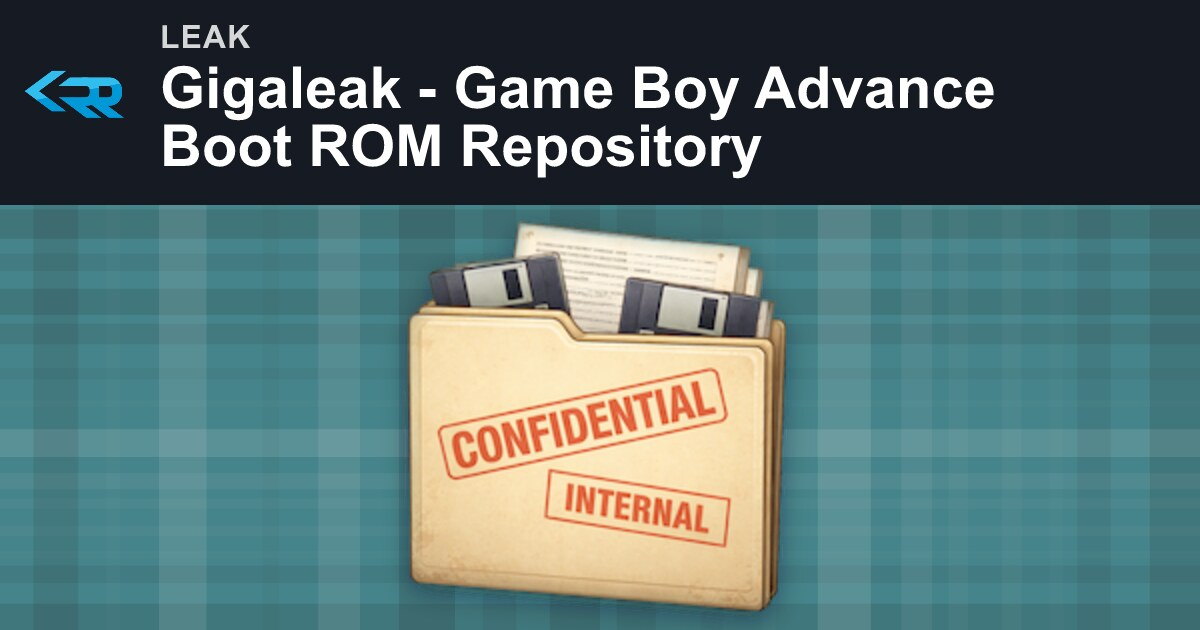
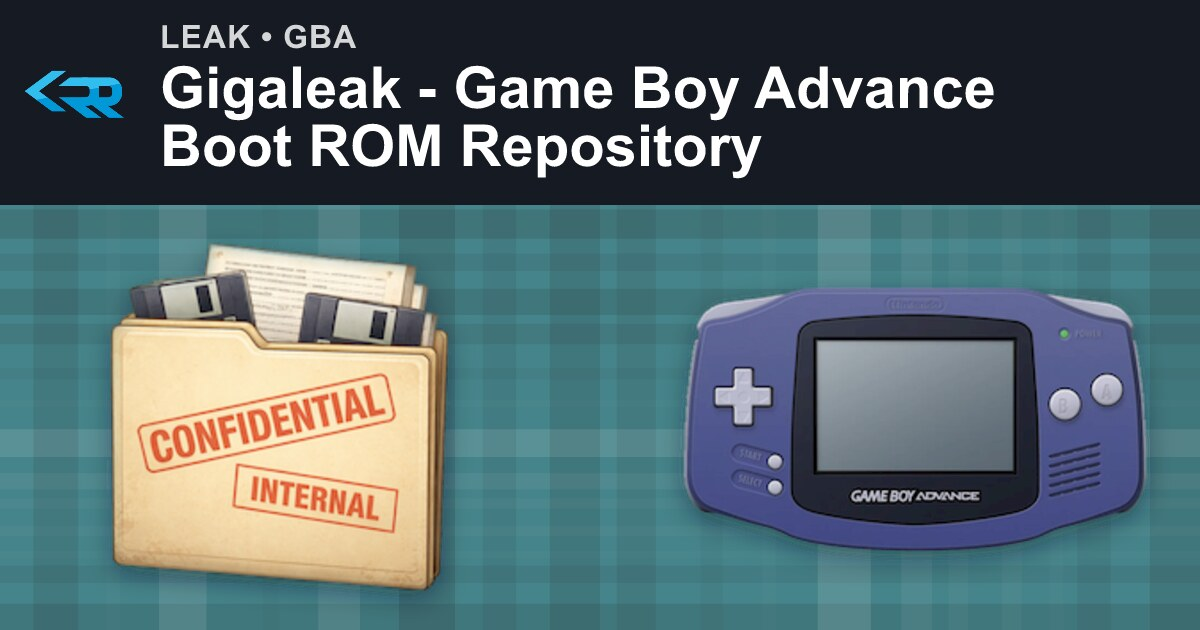
Now pages can have multiple categgories

diff --git a/scripts/generate-placeholder-social-images.js b/scripts/generate-placeholder-social-images.js
@@ -231,20 +231,74 @@ function getCategoryImageLayout(categoryImagePath) {
     };
 }
 
-function resolveCategory(metadata) {
+function getCategoryImageLayouts(categoryImagePaths = []) {
+    const usablePaths = categoryImagePaths.filter(Boolean);
+
+    if (usablePaths.length === 2) {
+        const lowerPanel = {
+            x: 0,
+            y: 205,
+            width: 1200,
+            height: 425
+        };
+        const horizontalGap = 72;
+        const slotWidth = (lowerPanel.width - horizontalGap) / 2;
+        const slotHeight = lowerPanel.height - 20;
+
+        return usablePaths.map((imagePath, index) => {
+            const slotX = lowerPanel.x + (index * (slotWidth + horizontalGap));
+            const slotY = lowerPanel.y + 10;
+            const dimensions = getImageDimensions(imagePath);
+
+            if (!dimensions) {
+                const fallbackWidth = Math.min(slotWidth * 0.82, 420);
+                const fallbackHeight = Math.min(slotHeight * 0.88, 320);
+                return {
+                    x: slotX + ((slotWidth - fallbackWidth) / 2),
+                    y: slotY + ((slotHeight - fallbackHeight) / 2),
+                    width: fallbackWidth,
+                    height: fallbackHeight
+                };
+            }
+
+            const fittedScale = Math.min(
+                (slotWidth * 0.88) / dimensions.width,
+                (slotHeight * 0.88) / dimensions.height
+            );
+            const renderedWidth = dimensions.width * fittedScale;
+            const renderedHeight = dimensions.height * fittedScale;
+
+            return {
+                x: slotX + ((slotWidth - renderedWidth) / 2),
+                y: slotY + ((slotHeight - renderedHeight) / 2),
+                width: renderedWidth,
+                height: renderedHeight
+            };
+        });
+    }
+
+    return [getCategoryImageLayout(usablePaths[0] || '')];
+}
+
+function resolveCategories(metadata) {
     if (metadata.category) {
-        return metadata.category;
+        if (Array.isArray(metadata.category) && metadata.category.length > 0) {
+            return metadata.category.filter(Boolean);
+        }
+        if (typeof metadata.category === 'string' && metadata.category) {
+            return [metadata.category];
+        }
     }
     if (metadata.console) {
-        return metadata.console;
+        return [metadata.console];
     }
     if (Array.isArray(metadata.categories) && metadata.categories.length > 0) {
-        return metadata.categories[0];
+        return [metadata.categories[0]];
     }
     if (typeof metadata.categories === 'string' && metadata.categories) {
-        return metadata.categories;
+        return [metadata.categories];
     }
-    return 'Reverse Engineering';
+    return ['Reverse Engineering'];
 }
 
 function wrapTitle(title, maxLineLength = 31, maxLines = 3) {
@@ -321,18 +375,21 @@ function buildGeoPatternSvg(seed) {
     }
 }
 
-function buildSvg({ title, category, categoryImagePath, seed }) {
+function buildSvg({ title, categories, categoryImagePaths, seed }) {
     const titleLines = wrapTitle(title);
     const titleY = titleLines.length === 1 ? 116 : 108;
-    const categoryText = category ? category.replace(/-/g, ' ').toUpperCase() : '';
-    const categoryImageHref = fileToDataUri(categoryImagePath);
+    const categoryText = categories
+        .slice(0, 2)
+        .map((category) => String(category).replace(/-/g, ' ').toUpperCase())
+        .join(' • ');
+    const categoryImageHrefs = categoryImagePaths.map((categoryImagePath) => fileToDataUri(categoryImagePath));
     const logoImageHref = fileToDataUri(RR_LOGO_IMAGE);
     const geoPatternSvg = buildGeoPatternSvg(seed);
     const geoPatternHref = geoPatternSvg
         ? `data:image/svg+xml;base64,${Buffer.from(geoPatternSvg).toString('base64')}`
         : '';
     const textX = 160;
-    const categoryImageLayout = getCategoryImageLayout(categoryImagePath);
+    const categoryImageLayouts = getCategoryImageLayouts(categoryImagePaths);
 
     const titleTspans = titleLines
         .slice(0,2)
@@ -342,9 +399,16 @@ function buildSvg({ title, category, categoryImagePath, seed }) {
     const barHeight = titleLines.length === 1 ? 150 : 205;
     const logoYOffset = titleLines.length === 1 ? 16 : 36;
 
-    const categoryImageMarkup = categoryImageHref
-        ? `<image href="${categoryImageHref}" x="${categoryImageLayout.x}" y="${categoryImageLayout.y}" width="${categoryImageLayout.width}" height="${categoryImageLayout.height}" preserveAspectRatio="xMidYMid meet" />`
-        : '';
+    const categoryImageMarkup = categoryImageHrefs
+        .map((categoryImageHref, index) => {
+            if (!categoryImageHref || !categoryImageLayouts[index]) {
+                return '';
+            }
+
+            const categoryImageLayout = categoryImageLayouts[index];
+            return `<image href="${categoryImageHref}" x="${categoryImageLayout.x}" y="${categoryImageLayout.y}" width="${categoryImageLayout.width}" height="${categoryImageLayout.height}" preserveAspectRatio="xMidYMid meet" />`;
+        })
+        .join('');
 
     return `<?xml version="1.0" encoding="UTF-8"?>
 <svg xmlns="http://www.w3.org/2000/svg" width="1200" height="630" viewBox="0 0 1200 630">
@@ -457,11 +521,15 @@ function main() {
             continue;
         }
 
-        const category = resolveCategory(metadata);
-        const categoryImageRelativePath = categoryImages[category];
-        const categoryImagePath = categoryImageRelativePath
-            ? path.join(ROOT_DIR, categoryImageRelativePath.replace(/^\//, ''))
-            : '';
+        const categories = resolveCategories(metadata).slice(0, 2);
+        const categoryImagePaths = categories
+            .map((category) => {
+                const categoryImageRelativePath = categoryImages[category];
+                return categoryImageRelativePath
+                    ? path.join(ROOT_DIR, categoryImageRelativePath.replace(/^\//, ''))
+                    : '';
+            })
+            .filter(Boolean);
 
         const outputPaths = buildOutputPath(metadata.permalink);
         const inputTimestamp = getInputTimestamp(filePath, CONFIG_PATH);
@@ -481,8 +549,8 @@ function main() {
 
         const svgContent = buildSvg({
             title: metadata.shorttitle || metadata.title,
-            category,
-            categoryImagePath,
+            categories,
+            categoryImagePaths,
             seed
         });
 

diff --git a/_includes/console.html b/_includes/console.html
@@ -1,8 +1,21 @@
 <div class="console-pages">
 {% assign page_category = page.category | default: page.console %}
+{% assign page_category_json = page_category | jsonify %}
   
 {% for post in site.pages %}
-  {% if page_category and post.tags contains page_category and post.url != page.url %}
+  {% assign include_post = false %}
+  {% if page_category_json contains '[' %}
+    {% for category in page_category %}
+      {% if category and post.tags contains category %}
+        {% assign include_post = true %}
+        {% break %}
+      {% endif %}
+    {% endfor %}
+  {% elsif page_category and post.tags contains page_category %}
+    {% assign include_post = true %}
+  {% endif %}
+
+  {% if include_post and post.url != page.url %}
   
   <div class="console-page-post">
       {% include post-list-cards.html %}

diff --git a/_includes/placeholder-post-image.html b/_includes/placeholder-post-image.html
@@ -4,7 +4,13 @@ Parameters:
 * post - The Post (Page) that this is a placeholder thumbnail image for
 {% endcomment %}
 {% if include.post.title %}
-  {% assign placeholder_category = include.post.category | default: include.post.console | default: include.post.categories.first %}
+  {% assign placeholder_category_raw = include.post.category | default: include.post.console | default: include.post.categories.first %}
+  {% assign placeholder_category_json = placeholder_category_raw | jsonify %}
+  {% if placeholder_category_json contains '[' %}
+    {% assign placeholder_category = placeholder_category_raw | first %}
+  {% else %}
+    {% assign placeholder_category = placeholder_category_raw %}
+  {% endif %}
   {% assign placeholder_category_image = site.category_images[placeholder_category] %}
   <div class="geopattern rr-placeholder-post-image" data-title="{{ include.post.title }}">
     <img class="lazy-load rr-placeholder-post-image__logo" data-image-full="/public/images/RRPlaceholder.jpg" alt="{{ include.post.title }}" />

diff --git a/_includes/post-list-cards.html b/_includes/post-list-cards.html
@@ -3,7 +3,13 @@
         <!-- This is used in the category page list of posts but not in the post layout as its a different header and uses "page" not "post" -->
         Note: use post NOT page for each title BUT use page.category as page is the category containing the list of posts
         {%- endcomment -%}
-        {% assign page_category = page.category | default: page.console %}
+        {% assign page_category_raw = page.category | default: page.console %}
+        {% assign page_category_json = page_category_raw | jsonify %}
+        {% if page_category_json contains '[' %}
+          {% assign page_category = page_category_raw | first %}
+        {% else %}
+          {% assign page_category = page_category_raw %}
+        {% endif %}
         <div class="post-header">
           <div>
             {% if page_category and site.category_images[page_category] %}

diff --git a/_includes/posts/post-header.html b/_includes/posts/post-header.html
@@ -1,5 +1,11 @@
 <div class="post-header">
-    {% assign page_category = page.category | default: page.console %}
+    {% assign page_category_raw = page.category | default: page.console %}
+    {% assign page_category_json = page_category_raw | jsonify %}
+    {% if page_category_json contains '[' %}
+    {% assign page_category = page_category_raw | first %}
+    {% else %}
+    {% assign page_category = page_category_raw %}
+    {% endif %}
     <div>
         {% if page.thumbnail %}
         <img class="post-header-icon" src="{{ page.thumbnail }}" alt="Post thumbnail">

diff --git a/CONTRIBUTING.md b/CONTRIBUTING.md
@@ -153,6 +153,10 @@ tags:
 - leak
 title: Example Page Title
 category: leak
+# category can also be a list when a page belongs to multiple areas:
+# category:
+# - leak
+# - snes
 image: /public/images/example.jpg
 twitterimage: https://www.retroreversing.com/public/images/example.jpg
 permalink: /example-page
@@ -178,7 +182,7 @@ Field | Purpose
 `layout` | Usually `post` for normal RetroReversing pages
 `tags` | Search/discovery tags for the page, and the values other pages match against in their `recommend` lists
 `title` | Full page title shown in the page header and metadata (do not use colons! as it messes with the yaml frontmatter)
-`category` | Main site grouping such as the games console name or others such as `leak`, `introduction`, `gameengines`, `maths`, or another section-specific category
+`category` | Main site grouping such as the games console name or others such as `leak`, `introduction`, `gameengines`, `maths`, or another section-specific category. This can be a single value (`category: leak`) or a list (`category: [leak, snes]`) when a page belongs to multiple categories.
 `image` | Main preview image used by the page and site cards, if there is not a unique one leave it blank and it will be generated based on the category and title
 `twitterimage` | Absolute URL version of the preview image for social sharing, leave blank and it will be generated
 `permalink` | Final public path for the page (do not end with a trailing `/`; that is legacy format we are moving away from)

diff --git a/pages/leaks/Nintendo/SuperMarioCollection.md b/pages/leaks/Nintendo/SuperMarioCollection.md
@@ -4,9 +4,10 @@ tags:
 - snes
 - leak
 - sourcecode
-- mario
 title: Original Super Mario Collection / All-Stars Source Code (Gigaleak)
-category: leak
+category: 
+- leak
+- snes
 permalink: /super-mario-collection-source-code
 breadcrumbs:
   - name: Home
@@ -19,7 +20,6 @@ recommend:
 - snes
 - leak
 - sourcecode
-- mario
 editlink: /leaks/Nintendo/SuperMarioCollection.md
 updatedAt: '2026-03-29'
 ---

diff --git a/pages/leaks/Nintendo/ZeldaALinkToThePast.md b/pages/leaks/Nintendo/ZeldaALinkToThePast.md
@@ -4,9 +4,10 @@ tags:
 - snes
 - leak
 - sourcecode
-- zelda
 title: Original The Legend of Zelda - A Link to the Past Source Code (Gigaleak)
-category: snes
+category: 
+- snes
+- leak
 permalink: /zelda-a-link-to-the-past-source-code
 breadcrumbs:
   - name: Home
@@ -19,7 +20,6 @@ recommend:
 - snes
 - leak
 - sourcecode
-- zelda
 editlink: /leaks/Nintendo/ZeldaALinkToThePast.md
 updatedAt: '2026-03-29'
 ---

diff --git a/pages/leaks/Nintendo/YoshisIsland.md b/pages/leaks/Nintendo/YoshisIsland.md
@@ -4,9 +4,10 @@ tags:
 - snes
 - leak
 - sourcecode
-- yoshi
 title: Original Yoshi's Island Source Code (Gigaleak)
-category: leak
+category: 
+- leak
+- snes
 permalink: /yoshis-island-source-code
 breadcrumbs:
   - name: Home

diff --git a/pages/leaks/Nintendo/GameBoyAdvanceBootRomRepository.md b/pages/leaks/Nintendo/GameBoyAdvanceBootRomRepository.md
@@ -6,7 +6,9 @@ tags:
 - leak
 - sourcecode
 title: Gigaleak - Game Boy Advance Boot ROM Repository
-category: leak
+category: 
+- leak
+- gba
 permalink: /game-boy-advance-boot-rom-repository
 breadcrumbs:
   - name: Home

diff --git a/pages/leaks/Nintendo/GameBoyColorBootRomRepository.md b/pages/leaks/Nintendo/GameBoyColorBootRomRepository.md
@@ -2,7 +2,6 @@
 layout: post
 tags:
 - gameboy
-- cgb
 - leak
 - sourcecode
 title: Gigaleak - Game Boy Color Boot ROM Repository
@@ -17,8 +16,8 @@ breadcrumbs:
     url: #
 recommend:
 - gameboy
-- cgb
 - leak
+- gba
 editlink: /leaks/Nintendo/GameBoyColorBootRomRepository.md
 updatedAt: '2026-03-29'
 ---